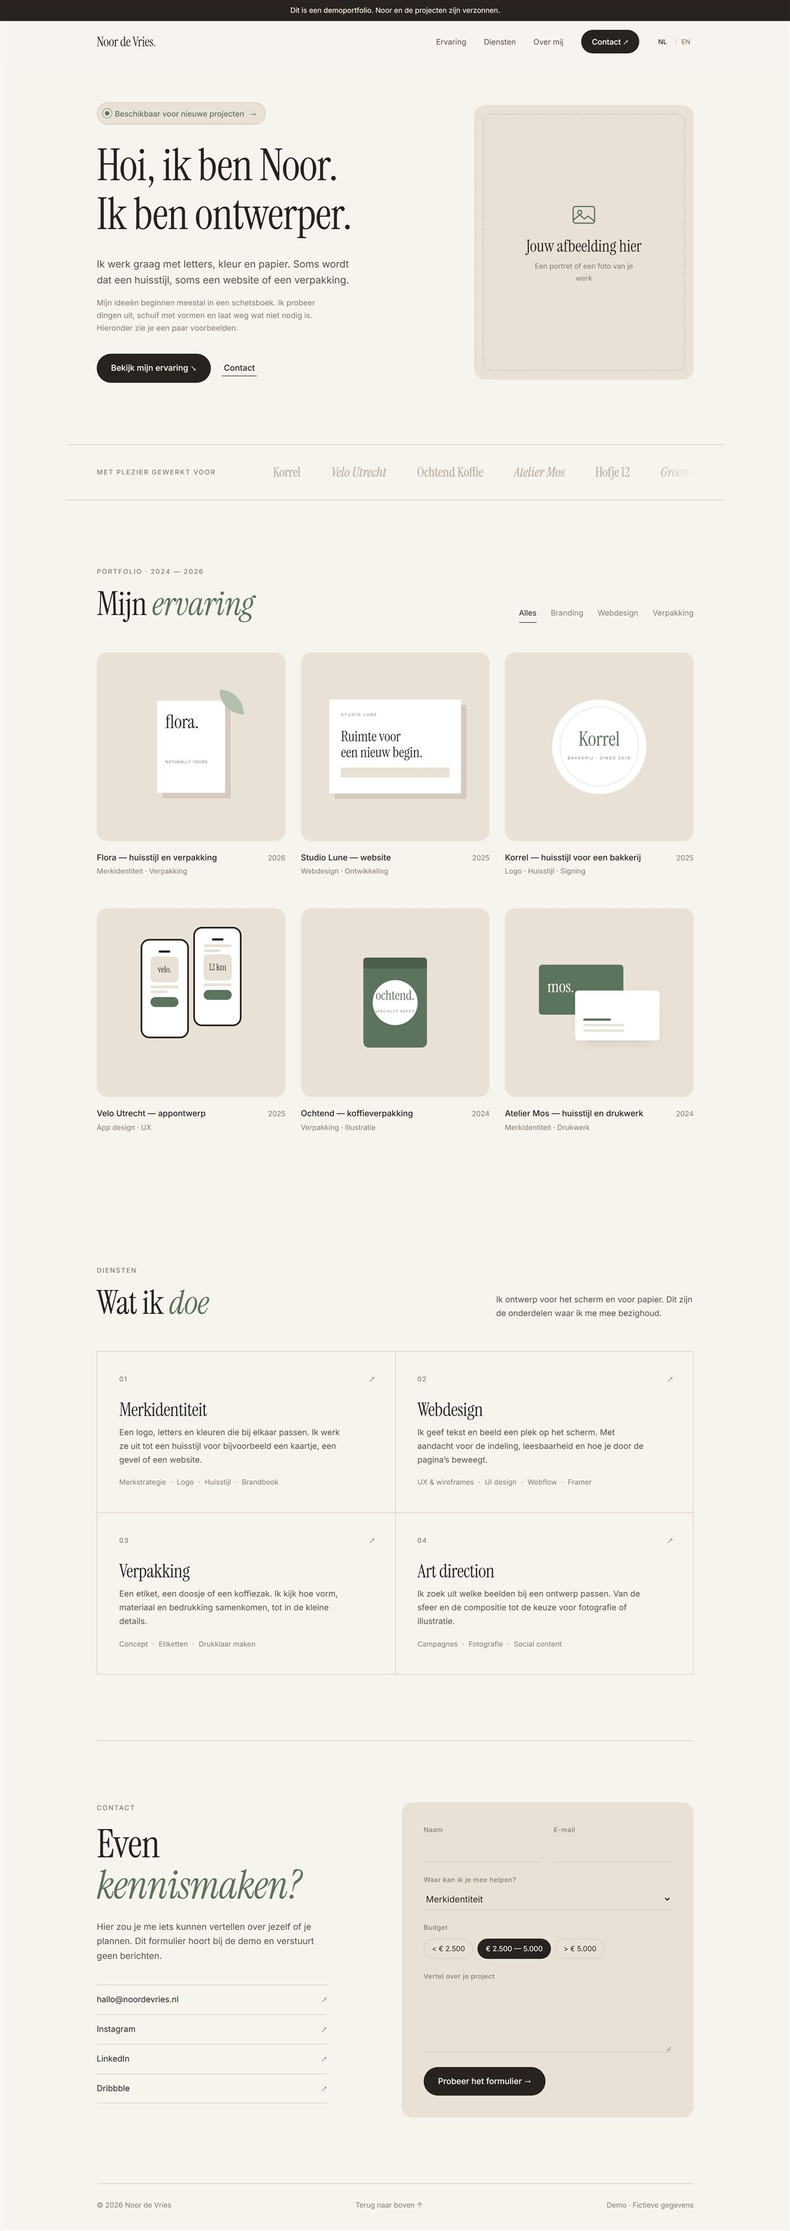
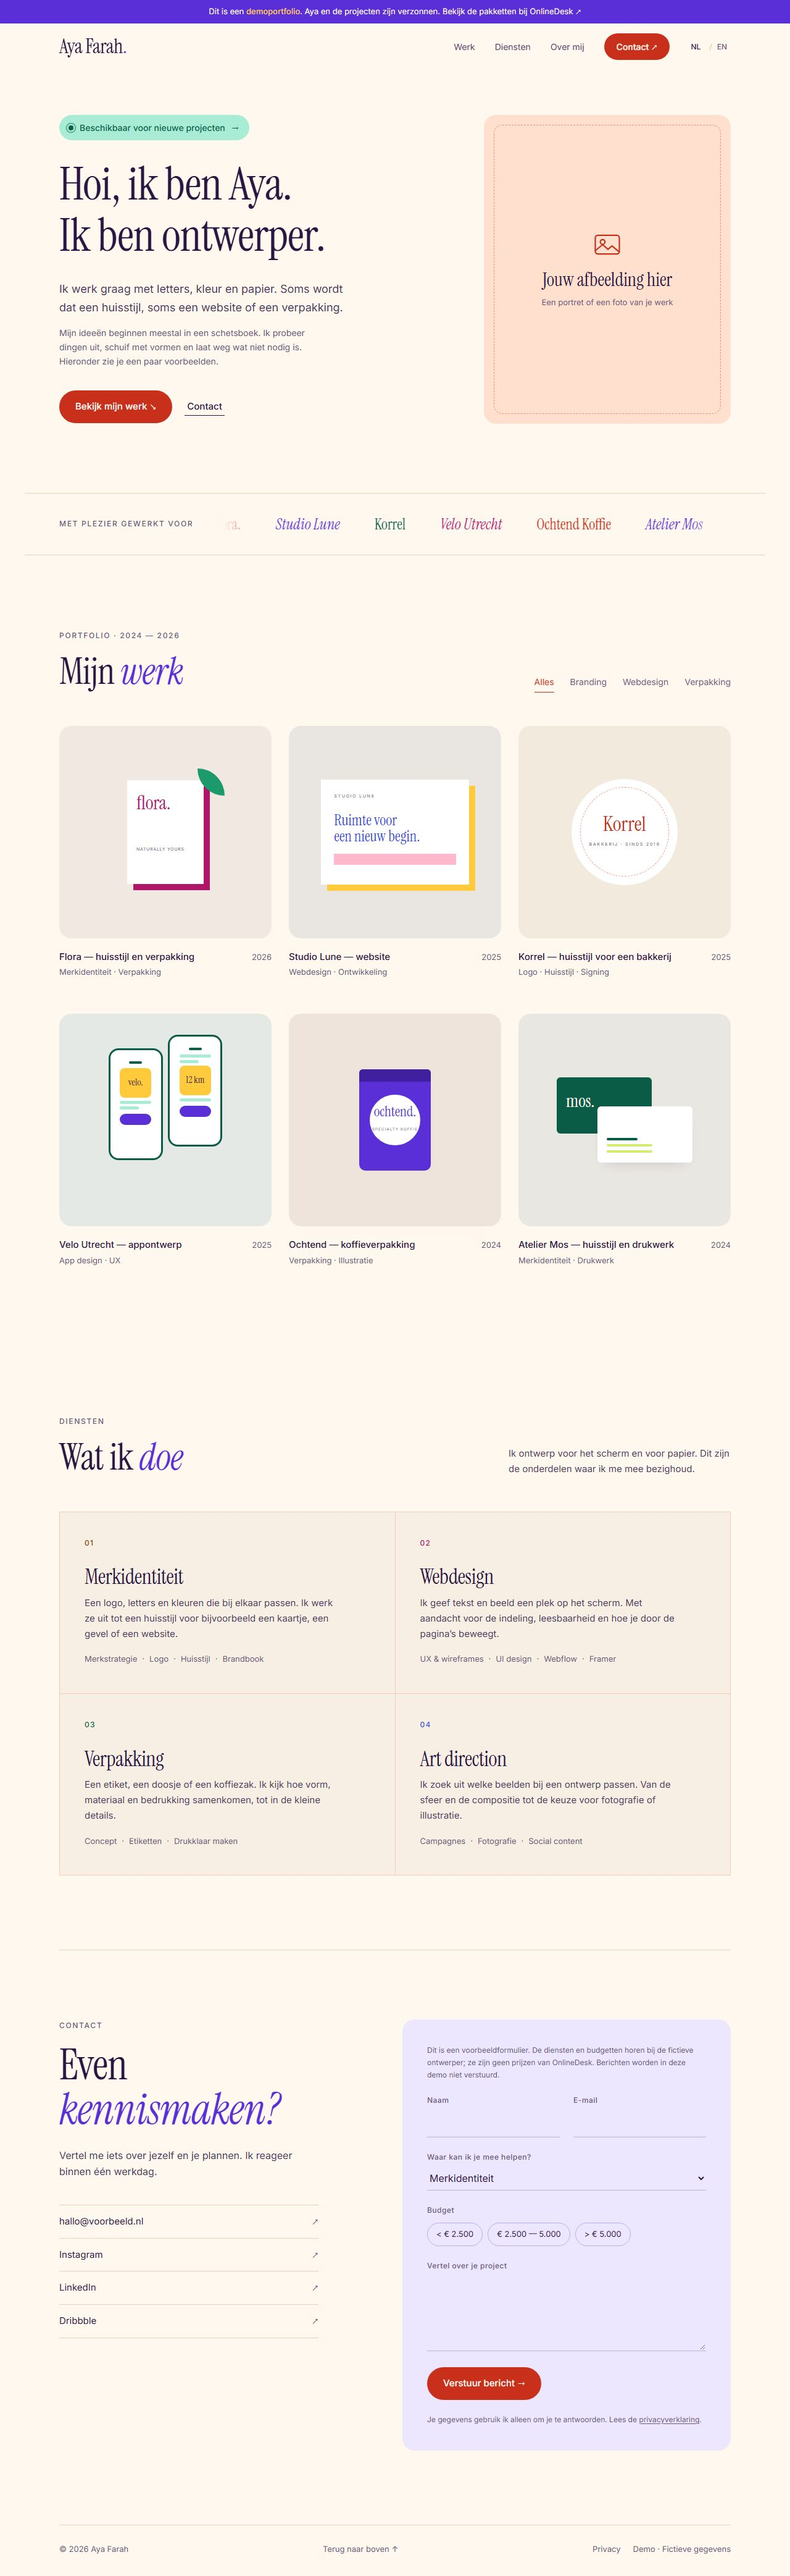
Werk bedrijfswebsite en portfolio-afbeeldingen bij
Bedrijfswebsite is nu tweetalig: teksten aangepast en nieuwe screenshots
met taalknop, ook op echte telefoonbreedte. Portfolio toont nu de huidige
demo van Aya Farah in plaats van de oude van Noor de Vries.

diff --git a/assets/js/content.js b/assets/js/content.js
@@ -48,7 +48,7 @@ window.SITE_CONTENT = {
       },
       "icon": "briefcase",
       "color": "sage",
-      "image": "assets/img/bedrijf.jpg",
+      "image": "assets/img/bedrijf.jpg?v=20261104",
       "demo": "https://umpreneur.github.io/koersvast-advies-demo/",
       "audience": {
         "nl": "Adviesbureaus en zakelijke dienstverleners",
@@ -61,7 +61,8 @@ window.SITE_CONTENT = {
           "Cases",
           "Nieuws",
           "Vacatures",
-          "Contactformulier"
+          "Contactformulier",
+          "Nederlands en Engels"
         ],
         "en": [
           "Large hero image",
@@ -69,7 +70,8 @@ window.SITE_CONTENT = {
           "Case studies",
           "News",
           "Vacancies",
-          "Contact form"
+          "Contact form",
+          "Dutch and English"
         ]
       },
       "headline": {
@@ -85,8 +87,8 @@ window.SITE_CONTENT = {
         "en": "Start yourself or get help with setup? Choose your package and explore the demo of the fictional consultancy Koersvast."
       },
       "preview": {
-        "desktop": "assets/img/bedrijf-pagina.jpg",
-        "mobile": "assets/img/bedrijf-pagina-mobiel.jpg"
+        "desktop": "assets/img/bedrijf-pagina.jpg?v=20261104",
+        "mobile": "assets/img/bedrijf-pagina-mobiel.jpg?v=20261104"
       },
       "steps": {
         "title": {
@@ -309,7 +311,7 @@ window.SITE_CONTENT = {
         "nl": [
           "Je koopt een bestaande template. Bij Basic doe je het zelf; bij Plus regel ik de techniek; bij Compleet ook je teksten en huisstijl.",
           "Afbeeldingen voeg je zelf toe, ook bij Compleet. Ik lever of plaats ze niet, maar leg uit hoe je ze toevoegt.",
-          "De website is Nederlandstalig. Je past hem aan in HTML/CSS/JS-bestanden; er is geen visuele editor.",
+          "De website is tweetalig: bezoekers wisselen tussen Nederlands en Engels. Je past hem aan in HTML/CSS/JS-bestanden; er is geen visuele editor.",
           "Bij Plus en Compleet staan domein en hosting op jouw naam. Je betaalt geen verplicht abonnement aan mij.",
           "Het eerste jaar domein is inbegrepen bij Plus en Compleet. Daarna betaal je de verlenging zelf. Eventuele hosting- en formulierkosten staan vooraf in je offerte.",
           "Een extra pagina of aanvullende wens? Bekijk de extra's; we spreken de kosten vooraf af."
@@ -317,7 +319,7 @@ window.SITE_CONTENT = {
         "en": [
           "You are buying an existing template. With Basic you do it yourself; with Plus I handle the technical setup; with Complete I also add your text and brand style.",
           "You add images yourself, including with Complete. I do not supply or add them, but I explain how to add them.",
-          "The website is in Dutch. You edit it in HTML/CSS/JS files; there is no visual editor.",
+          "The website is bilingual: visitors switch between Dutch and English. You edit it in HTML/CSS/JS files; there is no visual editor.",
           "With Plus and Complete, the domain and hosting are in your name. There is no mandatory subscription to me.",
           "The first year of the domain is included with Plus and Complete. You pay for renewals afterwards. Any hosting and form service costs are stated in your quote upfront.",
           "Need an extra page or something extra? Explore the extras; we agree on costs in advance."
@@ -329,7 +331,7 @@ window.SITE_CONTENT = {
           "price": { "nl": "€ 95", "en": "€95" }
         },
         {
-          "name": { "nl": "Extra taal (bijv. Engels)", "en": "Extra language (e.g. English)" },
+          "name": { "nl": "Extra taal naast Nederlands en Engels", "en": "Extra language besides Dutch and English" },
           "price": { "nl": "€ 235,95", "en": "€235.95" }
         },
         {
@@ -1064,7 +1066,7 @@ window.SITE_CONTENT = {
       },
       "icon": "layout",
       "color": "sky",
-      "image": "assets/img/portfolio.jpg",
+      "image": "assets/img/portfolio.jpg?v=20261104",
       "demo": "https://umpreneur.github.io/onlinedesk-portfolio/",
       "audience": {
         "nl": "Fotografen, ontwerpers en andere makers",
@@ -1083,8 +1085,8 @@ window.SITE_CONTENT = {
         "en": "You have something to share. Projects you’re proud of, ideas you want to share, or services that help others."
       },
       "preview": {
-        "desktop": "assets/img/portfolio-pagina.jpg",
-        "mobile": "assets/img/portfolio-pagina-mobiel.jpg"
+        "desktop": "assets/img/portfolio-pagina.jpg?v=20261104",
+        "mobile": "assets/img/portfolio-pagina-mobiel.jpg?v=20261104"
       },
       "steps": {
         "title": {

diff --git a/pakket.html b/pakket.html
@@ -25,7 +25,7 @@
     </noscript>
   </div>
 
-  <script src="assets/js/content.js?v=20261103-business-scope"></script>
+  <script src="assets/js/content.js?v=20261104-tweetalig"></script>
   <script src="assets/js/site.js?v=20261103-business-table"></script>
 </body>
 </html>

diff --git a/index.html b/index.html
@@ -30,7 +30,7 @@
     </noscript>
   </div>
 
-  <script src="assets/js/content.js?v=20261103-github-demos"></script>
+  <script src="assets/js/content.js?v=20261104-tweetalig"></script>
   <script src="assets/js/site.js?v=20261101-producten"></script>
 </body>
 </html>
